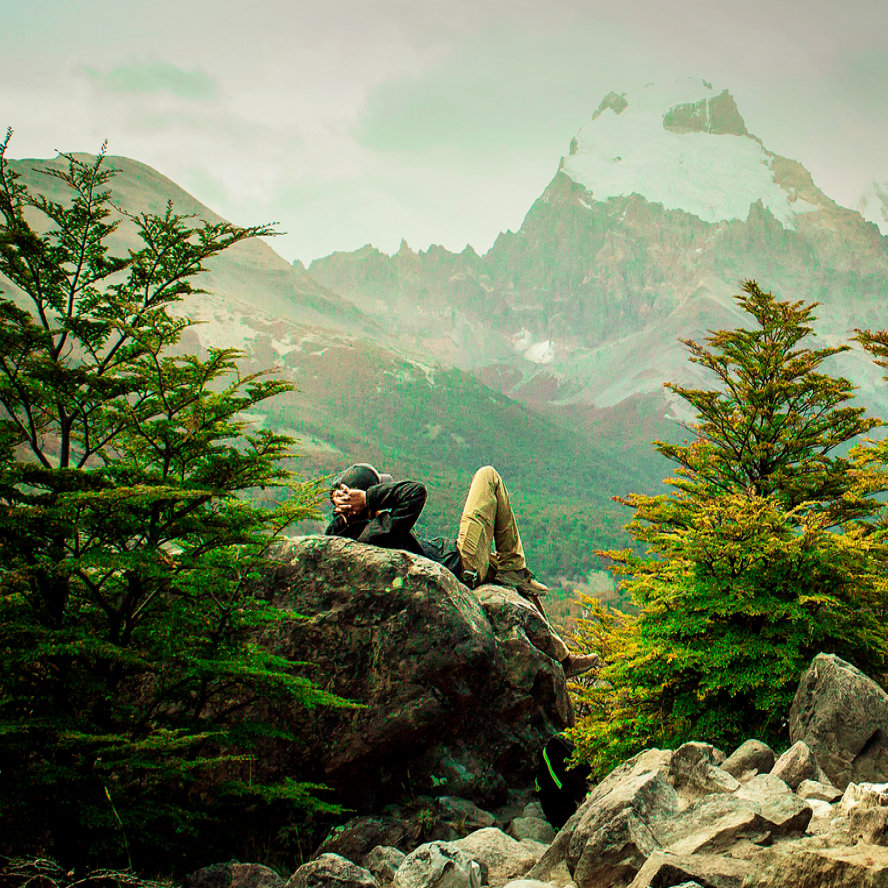
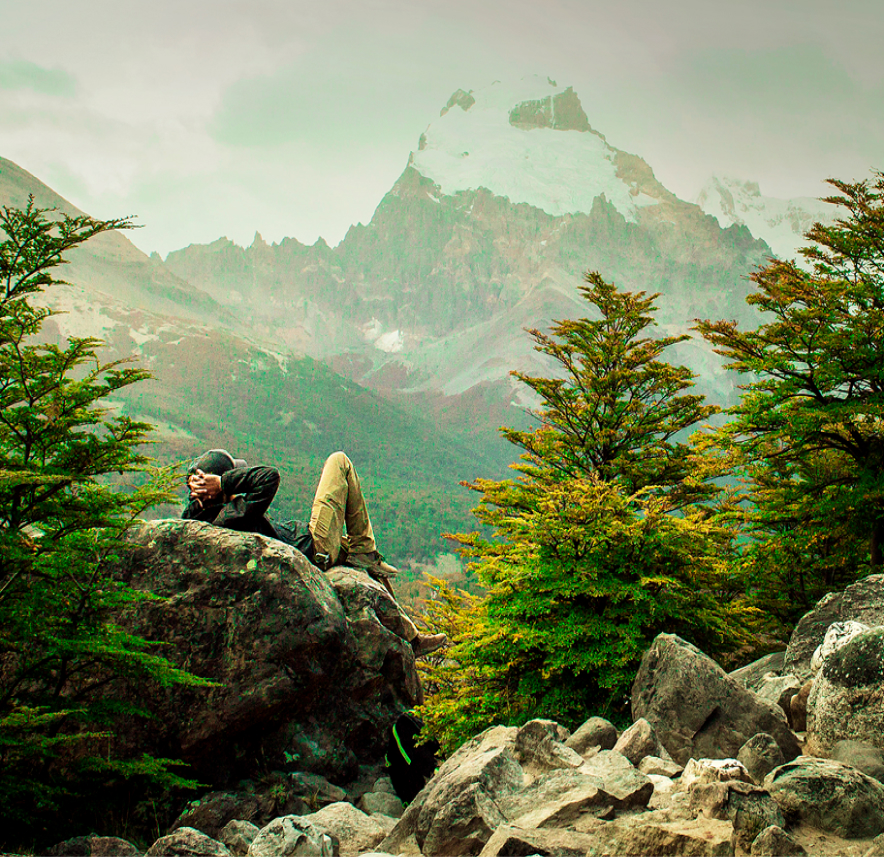
desktop version

diff --git a/style.css b/style.css
@@ -19,6 +19,9 @@ header {
     justify-content: center;
     text-align: center;
 }
+#desktop_img{
+    display: none;
+}
 .section-two{
     height: fit-content;
     background-color: var(--cor-bg-gray-principal);
@@ -61,6 +64,9 @@ header {
     text-align: center;
     padding-bottom: 20px;
 }
+.div_txt_sec_three h1{
+    font-size: 33px;
+}
 .div_txt_sec_three p{
    padding: 15px 5px 0px 5px;
 }
@@ -77,5 +83,34 @@ footer{
     align-items: center;
     background-color: var(--cor-bg-gray-principal);
     font-weight: bolder;
+    font-size: 24px;
+}
+
+/*============media queries=============*/
+@media screen and (min-width:900px) {
+    header{
+        display: none;
+    }
+    #mobile_img{
+        display:none;
+    }
+    #desktop_img{
+        display:flex;
+    }
+    .section-two{
+        display:flex;
+        padding: 50px 100px;
+        gap:100px;
+    }
+    .section-three{
+        display:flex;
+        padding: 30px 100px;
+        gap:50px;
+        align-items: center;
+    }
+    .div_txt_sec_three{
+        text-align: left;
+        padding-bottom: 0px;
+    }
 }
 

diff --git a/index.html b/index.html
@@ -15,7 +15,8 @@
         </div>
     </header>
     <section class="section-one">
-        <img width="100%" src="/images/image-rectangle.jpg" alt="imagem montanhista">
+        <img id="mobile_img" width="100%" src="/images/image-rectangle.jpg" alt="imagem montanhista">
+        <img id="desktop_img" width="100%" src="/images/rectangle-complete.jpg" alt="imagem montanhista">
     </section>
     
     <section class="section-two">
